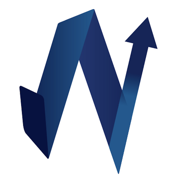
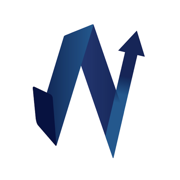
아이콘에 흰 여백(로고 80%) · 아이콘 주소에 ?v=2(브라우저가 예전 ESC 아이콘을 붙잡지 않게) · 메인 · 결제 안내 · 견적서 홈 버튼 「IM」 → 회사 로고 · 신청서 다섯 곳 링크 미리보기 = 메인 첫 화면 · 블로그 신청서 설명 「한 달에 10~100편」 → 「편당 10,000원 · 1회 10~100편 · 30일 안에 발행」 (이은총 님 10/16)

diff --git a/index.html b/index.html
@@ -25,11 +25,11 @@
 <meta property="og:image:alt" content="인투마케팅 — 홍보에 필요한 것을 한 회사에서">
 <meta name="twitter:card" content="summary_large_image">
 <meta name="twitter:image" content="https://intomarketing.co.kr/og-main.png">
-<link rel="icon" href="/favicon.ico" sizes="any">   <!-- 인투마케팅 로고 (2026-10-16) · 학원지원센터는 hakwon/ 의 ESC 아이콘 그대로 -->
-<link rel="icon" href="/favicon-32.png" sizes="32x32" type="image/png">
-<link rel="icon" href="/favicon-48.png" sizes="48x48" type="image/png">
-<link rel="icon" href="/favicon-192.png" sizes="192x192" type="image/png">
-<link rel="apple-touch-icon" href="/apple-touch-icon.png">
+<link rel="icon" href="/favicon.ico?v=2" sizes="any">   <!-- 인투마케팅 로고 (2026-10-16) · 학원지원센터는 hakwon/ 의 ESC 아이콘 그대로 -->
+<link rel="icon" href="/favicon-32.png?v=2" sizes="32x32" type="image/png">
+<link rel="icon" href="/favicon-48.png?v=2" sizes="48x48" type="image/png">
+<link rel="icon" href="/favicon-192.png?v=2" sizes="192x192" type="image/png">
+<link rel="apple-touch-icon" href="/apple-touch-icon.png?v=2">
 <meta name="theme-color" content="#12294D">
 <link rel="preconnect" href="https://fonts.googleapis.com">
 <link rel="preconnect" href="https://fonts.gstatic.com" crossorigin>
@@ -100,6 +100,9 @@ header{position:sticky;top:0;z-index:60;background:rgba(18,41,77,.94);
 .brand .mk{width:32px;height:32px;border-radius:8px;background:var(--accent);display:grid;place-items:center;
            font-weight:800;font-size:var(--t-xs);letter-spacing:.02em;color:#fff}
 .brand b{font-size:var(--t-base);font-weight:800;letter-spacing:-.01em}
+.brand .mk{background:#fff;overflow:hidden;box-shadow:0 0 0 1px rgba(15,23,42,.08)}
+.brand .mk img{width:100%;height:100%;display:block;object-fit:contain}
+body[data-view="design"] .brand .mk{background:#fff}
 .brand small{display:block;font-size:var(--t-xs);font-weight:600;color:#93B0DE;letter-spacing:.04em;line-height:1.2}
 .links{margin-left:auto;display:flex;align-items:center;gap:2px}
 .navlink{min-height:44px;display:inline-flex;align-items:center;background:none;border:0;cursor:pointer;color:#C6D8F4;font-size:var(--t-base);font-weight:600;
@@ -449,7 +452,7 @@ footer .cr{margin-top:12px;color:#6D8CB8;font-size:var(--t-xs)}
 <header>
   <div class="wrap nav">
     <button class="brand" onclick="go('home')">
-      <span class="mk">IM</span>
+      <span class="mk"><img src="/favicon-192.png?v=2" alt="" width="32" height="32"></span>   <!-- 회사 로고 (2026-10-16 · 전 「IM」 글자) -->
       <span><b>인투마케팅</b><small>INTO MARKETING</small></span>
     </button>
     <nav class="links" aria-label="주요 메뉴">

diff --git a/apply/index.html b/apply/index.html
@@ -7,15 +7,27 @@
 <link rel="preconnect" href="https://cdn.jsdelivr.net" crossorigin>
 <link rel="stylesheet" href="https://cdn.jsdelivr.net/gh/orioncactus/pretendard@v1.3.9/dist/web/variable/pretendardvariable-dynamic-subset.min.css">
 <title>홈페이지 제작 신청 · 인투마케팅</title>
+<!-- 링크 미리보기 그림 = 메인 첫 화면 (2026-10-16) -->
+<meta property="og:type" content="website">
+<meta property="og:site_name" content="인투마케팅">
+<meta property="og:title" content="홈페이지 제작 신청 · 인투마케팅">
+<meta property="og:description" content="인투마케팅 홈페이지 제작 신청과 제작 자료 보내기. 기능을 고르면 예상 금액이 바로 계산됩니다.">
+<meta property="og:url" content="https://intomarketing.co.kr/apply/">
+<meta property="og:locale" content="ko_KR">
+<meta property="og:image" content="https://intomarketing.co.kr/og-main.png">
+<meta property="og:image:width" content="1200">
+<meta property="og:image:height" content="630">
+<meta name="twitter:card" content="summary_large_image">
+<meta name="twitter:image" content="https://intomarketing.co.kr/og-main.png">
 <meta name="description" content="인투마케팅 홈페이지 제작 신청과 제작 자료 보내기. 기능을 고르면 예상 금액이 바로 계산됩니다.">
 <link rel="canonical" href="https://intomarketing.co.kr/apply/">
 <meta name="robots" content="noindex">
 <meta name="color-scheme" content="light dark">
-<link rel="icon" href="/favicon.ico" sizes="any">   <!-- 인투마케팅 로고 (2026-10-16) · 학원지원센터는 hakwon/ 의 ESC 아이콘 그대로 -->
-<link rel="icon" href="/favicon-32.png" sizes="32x32" type="image/png">
-<link rel="icon" href="/favicon-48.png" sizes="48x48" type="image/png">
-<link rel="icon" href="/favicon-192.png" sizes="192x192" type="image/png">
-<link rel="apple-touch-icon" href="/apple-touch-icon.png">
+<link rel="icon" href="/favicon.ico?v=2" sizes="any">   <!-- 인투마케팅 로고 (2026-10-16) · 학원지원센터는 hakwon/ 의 ESC 아이콘 그대로 -->
+<link rel="icon" href="/favicon-32.png?v=2" sizes="32x32" type="image/png">
+<link rel="icon" href="/favicon-48.png?v=2" sizes="48x48" type="image/png">
+<link rel="icon" href="/favicon-192.png?v=2" sizes="192x192" type="image/png">
+<link rel="apple-touch-icon" href="/apple-touch-icon.png?v=2">
 <meta name="theme-color" content="#12294D">
 <style>
 /* ══════════════════════════════════════════════════════════════

diff --git a/apply/blog/index.html b/apply/blog/index.html
@@ -10,14 +10,26 @@
 <link rel="preconnect" href="https://cdn.jsdelivr.net" crossorigin>
 <link rel="stylesheet" href="https://cdn.jsdelivr.net/gh/orioncactus/pretendard@v1.3.9/dist/web/variable/pretendardvariable-dynamic-subset.min.css">
 <title>블로그 · 리뷰 신청서 · 인투마케팅</title>
-<meta name="description" content="인투마케팅 블로그·리뷰 홍보 신청서. 한 달에 10~100편.">
+<!-- 링크 미리보기 그림 = 메인 첫 화면 (2026-10-16) -->
+<meta property="og:type" content="website">
+<meta property="og:site_name" content="인투마케팅">
+<meta property="og:title" content="블로그 · 리뷰 신청서 · 인투마케팅">
+<meta property="og:description" content="인투마케팅 블로그·리뷰 홍보 신청서. 편당 10,000원 · 1회 10~100편 · 30일 안에 발행.">
+<meta property="og:url" content="https://intomarketing.co.kr/apply/blog/">
+<meta property="og:locale" content="ko_KR">
+<meta property="og:image" content="https://intomarketing.co.kr/og-main.png">
+<meta property="og:image:width" content="1200">
+<meta property="og:image:height" content="630">
+<meta name="twitter:card" content="summary_large_image">
+<meta name="twitter:image" content="https://intomarketing.co.kr/og-main.png">
+<meta name="description" content="인투마케팅 블로그·리뷰 홍보 신청서. 편당 10,000원 · 1회 10~100편 · 30일 안에 발행.">
 <link rel="canonical" href="https://intomarketing.co.kr/apply/blog/">
 <meta name="robots" content="noindex">
-<link rel="icon" href="/favicon.ico" sizes="any">   <!-- 인투마케팅 로고 (2026-10-16) · 학원지원센터는 hakwon/ 의 ESC 아이콘 그대로 -->
-<link rel="icon" href="/favicon-32.png" sizes="32x32" type="image/png">
-<link rel="icon" href="/favicon-48.png" sizes="48x48" type="image/png">
-<link rel="icon" href="/favicon-192.png" sizes="192x192" type="image/png">
-<link rel="apple-touch-icon" href="/apple-touch-icon.png">
+<link rel="icon" href="/favicon.ico?v=2" sizes="any">   <!-- 인투마케팅 로고 (2026-10-16) · 학원지원센터는 hakwon/ 의 ESC 아이콘 그대로 -->
+<link rel="icon" href="/favicon-32.png?v=2" sizes="32x32" type="image/png">
+<link rel="icon" href="/favicon-48.png?v=2" sizes="48x48" type="image/png">
+<link rel="icon" href="/favicon-192.png?v=2" sizes="192x192" type="image/png">
+<link rel="apple-touch-icon" href="/apple-touch-icon.png?v=2">
 <meta name="theme-color" content="#12294D">
 <link rel="stylesheet" href="../form.css">
 <style>

diff --git a/apply/design/index.html b/apply/design/index.html
@@ -10,14 +10,26 @@
 <link rel="preconnect" href="https://cdn.jsdelivr.net" crossorigin>
 <link rel="stylesheet" href="https://cdn.jsdelivr.net/gh/orioncactus/pretendard@v1.3.9/dist/web/variable/pretendardvariable-dynamic-subset.min.css">
 <title>디자인 의뢰서 · 인투마케팅</title>
+<!-- 링크 미리보기 그림 = 메인 첫 화면 (2026-10-16) -->
+<meta property="og:type" content="website">
+<meta property="og:site_name" content="인투마케팅">
+<meta property="og:title" content="디자인 의뢰서 · 인투마케팅">
+<meta property="og:description" content="인투마케팅 그래픽 디자인 의뢰서. 로고·명함, 인쇄·홍보물, SNS·카드뉴스.">
+<meta property="og:url" content="https://intomarketing.co.kr/apply/design/">
+<meta property="og:locale" content="ko_KR">
+<meta property="og:image" content="https://intomarketing.co.kr/og-main.png">
+<meta property="og:image:width" content="1200">
+<meta property="og:image:height" content="630">
+<meta name="twitter:card" content="summary_large_image">
+<meta name="twitter:image" content="https://intomarketing.co.kr/og-main.png">
 <meta name="description" content="인투마케팅 그래픽 디자인 의뢰서. 로고·명함, 인쇄·홍보물, SNS·카드뉴스.">
 <link rel="canonical" href="https://intomarketing.co.kr/apply/design/">
 <meta name="robots" content="noindex">
-<link rel="icon" href="/favicon.ico" sizes="any">   <!-- 인투마케팅 로고 (2026-10-16) · 학원지원센터는 hakwon/ 의 ESC 아이콘 그대로 -->
-<link rel="icon" href="/favicon-32.png" sizes="32x32" type="image/png">
-<link rel="icon" href="/favicon-48.png" sizes="48x48" type="image/png">
-<link rel="icon" href="/favicon-192.png" sizes="192x192" type="image/png">
-<link rel="apple-touch-icon" href="/apple-touch-icon.png">
+<link rel="icon" href="/favicon.ico?v=2" sizes="any">   <!-- 인투마케팅 로고 (2026-10-16) · 학원지원센터는 hakwon/ 의 ESC 아이콘 그대로 -->
+<link rel="icon" href="/favicon-32.png?v=2" sizes="32x32" type="image/png">
+<link rel="icon" href="/favicon-48.png?v=2" sizes="48x48" type="image/png">
+<link rel="icon" href="/favicon-192.png?v=2" sizes="192x192" type="image/png">
+<link rel="apple-touch-icon" href="/apple-touch-icon.png?v=2">
 <meta name="theme-color" content="#365C29">
 <link rel="stylesheet" href="../form.css">
 <!-- 🔴 디자인 신청서만 노랑 · 초록입니다 (2026-10-12 디자인팀 요청 — 홈페이지 「디자인」 화면과 같은 색).

diff --git a/apply/video/index.html b/apply/video/index.html
@@ -10,14 +10,26 @@
 <link rel="preconnect" href="https://cdn.jsdelivr.net" crossorigin>
 <link rel="stylesheet" href="https://cdn.jsdelivr.net/gh/orioncactus/pretendard@v1.3.9/dist/web/variable/pretendardvariable-dynamic-subset.min.css">
 <title>영상 제작 신청서 · 인투마케팅</title>
+<!-- 링크 미리보기 그림 = 메인 첫 화면 (2026-10-16) -->
+<meta property="og:type" content="website">
+<meta property="og:site_name" content="인투마케팅">
+<meta property="og:title" content="영상 제작 신청서 · 인투마케팅">
+<meta property="og:description" content="인투마케팅 영상 제작 신청서. 숏폼·롱폼, 기획·촬영·편집.">
+<meta property="og:url" content="https://intomarketing.co.kr/apply/video/">
+<meta property="og:locale" content="ko_KR">
+<meta property="og:image" content="https://intomarketing.co.kr/og-main.png">
+<meta property="og:image:width" content="1200">
+<meta property="og:image:height" content="630">
+<meta name="twitter:card" content="summary_large_image">
+<meta name="twitter:image" content="https://intomarketing.co.kr/og-main.png">
 <meta name="description" content="인투마케팅 영상 제작 신청서. 숏폼·롱폼, 기획·촬영·편집.">
 <link rel="canonical" href="https://intomarketing.co.kr/apply/video/">
 <meta name="robots" content="noindex">
-<link rel="icon" href="/favicon.ico" sizes="any">   <!-- 인투마케팅 로고 (2026-10-16) · 학원지원센터는 hakwon/ 의 ESC 아이콘 그대로 -->
-<link rel="icon" href="/favicon-32.png" sizes="32x32" type="image/png">
-<link rel="icon" href="/favicon-48.png" sizes="48x48" type="image/png">
-<link rel="icon" href="/favicon-192.png" sizes="192x192" type="image/png">
-<link rel="apple-touch-icon" href="/apple-touch-icon.png">
+<link rel="icon" href="/favicon.ico?v=2" sizes="any">   <!-- 인투마케팅 로고 (2026-10-16) · 학원지원센터는 hakwon/ 의 ESC 아이콘 그대로 -->
+<link rel="icon" href="/favicon-32.png?v=2" sizes="32x32" type="image/png">
+<link rel="icon" href="/favicon-48.png?v=2" sizes="48x48" type="image/png">
+<link rel="icon" href="/favicon-192.png?v=2" sizes="192x192" type="image/png">
+<link rel="apple-touch-icon" href="/apple-touch-icon.png?v=2">
 <meta name="theme-color" content="#12294D">
 <link rel="stylesheet" href="../form.css">
 </head>

diff --git a/apply/sns/index.html b/apply/sns/index.html
@@ -10,14 +10,26 @@
 <link rel="preconnect" href="https://cdn.jsdelivr.net" crossorigin>
 <link rel="stylesheet" href="https://cdn.jsdelivr.net/gh/orioncactus/pretendard@v1.3.9/dist/web/variable/pretendardvariable-dynamic-subset.min.css">
 <title>SNS 채널 신청서 · 인투마케팅</title>
+<!-- 링크 미리보기 그림 = 메인 첫 화면 (2026-10-16) -->
+<meta property="og:type" content="website">
+<meta property="og:site_name" content="인투마케팅">
+<meta property="og:title" content="SNS 채널 신청서 · 인투마케팅">
+<meta property="og:description" content="인투마케팅 SNS 채널 세팅·정기 콘텐츠 신청서.">
+<meta property="og:url" content="https://intomarketing.co.kr/apply/sns/">
+<meta property="og:locale" content="ko_KR">
+<meta property="og:image" content="https://intomarketing.co.kr/og-main.png">
+<meta property="og:image:width" content="1200">
+<meta property="og:image:height" content="630">
+<meta name="twitter:card" content="summary_large_image">
+<meta name="twitter:image" content="https://intomarketing.co.kr/og-main.png">
 <meta name="description" content="인투마케팅 SNS 채널 세팅·정기 콘텐츠 신청서.">
 <link rel="canonical" href="https://intomarketing.co.kr/apply/sns/">
 <meta name="robots" content="noindex">
-<link rel="icon" href="/favicon.ico" sizes="any">   <!-- 인투마케팅 로고 (2026-10-16) · 학원지원센터는 hakwon/ 의 ESC 아이콘 그대로 -->
-<link rel="icon" href="/favicon-32.png" sizes="32x32" type="image/png">
-<link rel="icon" href="/favicon-48.png" sizes="48x48" type="image/png">
-<link rel="icon" href="/favicon-192.png" sizes="192x192" type="image/png">
-<link rel="apple-touch-icon" href="/apple-touch-icon.png">
+<link rel="icon" href="/favicon.ico?v=2" sizes="any">   <!-- 인투마케팅 로고 (2026-10-16) · 학원지원센터는 hakwon/ 의 ESC 아이콘 그대로 -->
+<link rel="icon" href="/favicon-32.png?v=2" sizes="32x32" type="image/png">
+<link rel="icon" href="/favicon-48.png?v=2" sizes="48x48" type="image/png">
+<link rel="icon" href="/favicon-192.png?v=2" sizes="192x192" type="image/png">
+<link rel="apple-touch-icon" href="/apple-touch-icon.png?v=2">
 <meta name="theme-color" content="#12294D">
 <link rel="stylesheet" href="../form.css">
 </head>

diff --git a/payment/index.html b/payment/index.html
@@ -11,11 +11,11 @@
 <link rel="stylesheet" href="https://cdn.jsdelivr.net/gh/orioncactus/pretendard@v1.3.9/dist/web/variable/pretendardvariable-dynamic-subset.min.css">
 <title>결제 · 취소 · 환불 안내 — 인투마케팅</title>
 <meta name="description" content="인투마케팅 서비스의 결제 수단, 결제 시점, 취소 및 환불 기준 안내">
-<link rel="icon" href="/favicon.ico" sizes="any">   <!-- 인투마케팅 로고 (2026-10-16) · 학원지원센터는 hakwon/ 의 ESC 아이콘 그대로 -->
-<link rel="icon" href="/favicon-32.png" sizes="32x32" type="image/png">
-<link rel="icon" href="/favicon-48.png" sizes="48x48" type="image/png">
-<link rel="icon" href="/favicon-192.png" sizes="192x192" type="image/png">
-<link rel="apple-touch-icon" href="/apple-touch-icon.png">
+<link rel="icon" href="/favicon.ico?v=2" sizes="any">   <!-- 인투마케팅 로고 (2026-10-16) · 학원지원센터는 hakwon/ 의 ESC 아이콘 그대로 -->
+<link rel="icon" href="/favicon-32.png?v=2" sizes="32x32" type="image/png">
+<link rel="icon" href="/favicon-48.png?v=2" sizes="48x48" type="image/png">
+<link rel="icon" href="/favicon-192.png?v=2" sizes="192x192" type="image/png">
+<link rel="apple-touch-icon" href="/apple-touch-icon.png?v=2">
 <meta name="theme-color" content="#12294D">
 <style>
   /* 대표 페이지(/)·학원지원센터(/hakwon/)와 같은 색·글꼴 — 같은 회사로 보이게 */
@@ -132,13 +132,15 @@ img{outline:1px solid rgba(0,0,0,.1);outline-offset:-1px}
 @media (prefers-reduced-motion:reduce){
   .btn:active,.chip:active,.pick:active,.sp:active,.tab:active{transform:none}
 }
+  .mk i{background:#fff;overflow:hidden}   /* 회사 로고 (2026-10-16) */
+  .mk i img{width:100%;height:100%;display:block;object-fit:contain}
 </style>
 </head>
 <body>
 
 <header class="top">
   <div class="wrap">
-    <a class="mk" href="../"><i>IM</i><b>인투마케팅</b></a>
+    <a class="mk" href="../"><i><img src="/favicon-192.png?v=2" alt="" width="32" height="32"></i><b>인투마케팅</b></a>
     <h1>결제 · 취소 · 환불 안내</h1>
     <p class="eff">2026년 10월 3일 기준 · 환불 기준은 <a href="../terms/#t7" style="color:#DCE6F8">이용약관 제7조</a>를 따릅니다</p>
   </div>

diff --git a/quote/index.html b/quote/index.html
@@ -11,11 +11,11 @@
 <link rel="stylesheet" href="https://cdn.jsdelivr.net/gh/orioncactus/pretendard@v1.3.9/dist/web/variable/pretendardvariable-dynamic-subset.min.css">
 <meta name="robots" content="noindex, nofollow">
 <title>견적서 — 인투마케팅</title>
-<link rel="icon" href="/favicon.ico" sizes="any">   <!-- 인투마케팅 로고 (2026-10-16) · 학원지원센터는 hakwon/ 의 ESC 아이콘 그대로 -->
-<link rel="icon" href="/favicon-32.png" sizes="32x32" type="image/png">
-<link rel="icon" href="/favicon-48.png" sizes="48x48" type="image/png">
-<link rel="icon" href="/favicon-192.png" sizes="192x192" type="image/png">
-<link rel="apple-touch-icon" href="/apple-touch-icon.png">
+<link rel="icon" href="/favicon.ico?v=2" sizes="any">   <!-- 인투마케팅 로고 (2026-10-16) · 학원지원센터는 hakwon/ 의 ESC 아이콘 그대로 -->
+<link rel="icon" href="/favicon-32.png?v=2" sizes="32x32" type="image/png">
+<link rel="icon" href="/favicon-48.png?v=2" sizes="48x48" type="image/png">
+<link rel="icon" href="/favicon-192.png?v=2" sizes="192x192" type="image/png">
+<link rel="apple-touch-icon" href="/apple-touch-icon.png?v=2">
 <meta name="theme-color" content="#12294D">
 <style>
   /* 대표 페이지(/)·학원지원센터(/hakwon/)와 같은 색·글꼴 — 같은 회사로 보이게 */
@@ -137,6 +137,8 @@
   @media (prefers-color-scheme:dark){.msg.err{background:#3A1B1B;color:#F6B5B5}.msg.ok{background:#16301F;color:#A8E0BE}}
   .done{text-align:center;padding:40px 20px}
   .done .big{font-size:40px}
+  .mk i{background:#fff;overflow:hidden}   /* 회사 로고 (2026-10-16) */
+  .mk i img{width:100%;height:100%;display:block;object-fit:contain}
 </style>
 <script src="https://cdn.jsdelivr.net/npm/@supabase/supabase-js@2"></script>
 <script src="https://cdn.portone.io/v2/browser-sdk.js"></script>
@@ -145,7 +147,7 @@
 
 <header class="top">
   <div class="wrap">
-    <a class="mk" href="../"><i>IM</i><b>인투마케팅</b></a>
+    <a class="mk" href="../"><i><img src="/favicon-192.png?v=2" alt="" width="32" height="32"></i><b>인투마케팅</b></a>
     <h1>견적서</h1>
     <p class="eff" id="eff">불러오는 중…</p>
   </div>

diff --git a/admin/index.html b/admin/index.html
@@ -11,11 +11,11 @@
 <link rel="stylesheet" href="https://cdn.jsdelivr.net/gh/orioncactus/pretendard@v1.3.9/dist/web/variable/pretendardvariable-dynamic-subset.min.css">
 <title>모아 보기 · 인투마케팅 관리자</title>
 <meta name="robots" content="noindex,nofollow">
-<link rel="icon" href="/favicon.ico" sizes="any">   <!-- 인투마케팅 로고 (2026-10-16) · 학원지원센터는 hakwon/ 의 ESC 아이콘 그대로 -->
-<link rel="icon" href="/favicon-32.png" sizes="32x32" type="image/png">
-<link rel="icon" href="/favicon-48.png" sizes="48x48" type="image/png">
-<link rel="icon" href="/favicon-192.png" sizes="192x192" type="image/png">
-<link rel="apple-touch-icon" href="/apple-touch-icon.png">
+<link rel="icon" href="/favicon.ico?v=2" sizes="any">   <!-- 인투마케팅 로고 (2026-10-16) · 학원지원센터는 hakwon/ 의 ESC 아이콘 그대로 -->
+<link rel="icon" href="/favicon-32.png?v=2" sizes="32x32" type="image/png">
+<link rel="icon" href="/favicon-48.png?v=2" sizes="48x48" type="image/png">
+<link rel="icon" href="/favicon-192.png?v=2" sizes="192x192" type="image/png">
+<link rel="apple-touch-icon" href="/apple-touch-icon.png?v=2">
 <meta name="theme-color" content="#12294D">
 <style>
 /* ──────────────────────────────────────────────────────────────

diff --git a/privacy/index.html b/privacy/index.html
@@ -11,11 +11,11 @@
 <link rel="stylesheet" href="https://cdn.jsdelivr.net/gh/orioncactus/pretendard@v1.3.9/dist/web/variable/pretendardvariable-dynamic-subset.min.css">
 <title>개인정보처리방침 — 인투마케팅</title>
 <meta name="description" content="인투마케팅 개인정보처리방침 · 시행일 2026년 9월 10일">
-<link rel="icon" href="/favicon.ico" sizes="any">   <!-- 인투마케팅 로고 (2026-10-16) · 학원지원센터는 hakwon/ 의 ESC 아이콘 그대로 -->
-<link rel="icon" href="/favicon-32.png" sizes="32x32" type="image/png">
-<link rel="icon" href="/favicon-48.png" sizes="48x48" type="image/png">
-<link rel="icon" href="/favicon-192.png" sizes="192x192" type="image/png">
-<link rel="apple-touch-icon" href="/apple-touch-icon.png">
+<link rel="icon" href="/favicon.ico?v=2" sizes="any">   <!-- 인투마케팅 로고 (2026-10-16) · 학원지원센터는 hakwon/ 의 ESC 아이콘 그대로 -->
+<link rel="icon" href="/favicon-32.png?v=2" sizes="32x32" type="image/png">
+<link rel="icon" href="/favicon-48.png?v=2" sizes="48x48" type="image/png">
+<link rel="icon" href="/favicon-192.png?v=2" sizes="192x192" type="image/png">
+<link rel="apple-touch-icon" href="/apple-touch-icon.png?v=2">
 <meta name="theme-color" content="#12294D">
 <style>
   /* 대표 페이지(/)·학원지원센터(/hakwon/)와 같은 색·글꼴 — 같은 회사로 보이게 */

diff --git a/terms/index.html b/terms/index.html
@@ -11,11 +11,11 @@
 <link rel="stylesheet" href="https://cdn.jsdelivr.net/gh/orioncactus/pretendard@v1.3.9/dist/web/variable/pretendardvariable-dynamic-subset.min.css">
 <title>이용약관 — 인투마케팅</title>
 <meta name="description" content="인투마케팅 서비스 이용약관 · 시행일 2026년 9월 25일">
-<link rel="icon" href="/favicon.ico" sizes="any">   <!-- 인투마케팅 로고 (2026-10-16) · 학원지원센터는 hakwon/ 의 ESC 아이콘 그대로 -->
-<link rel="icon" href="/favicon-32.png" sizes="32x32" type="image/png">
-<link rel="icon" href="/favicon-48.png" sizes="48x48" type="image/png">
-<link rel="icon" href="/favicon-192.png" sizes="192x192" type="image/png">
-<link rel="apple-touch-icon" href="/apple-touch-icon.png">
+<link rel="icon" href="/favicon.ico?v=2" sizes="any">   <!-- 인투마케팅 로고 (2026-10-16) · 학원지원센터는 hakwon/ 의 ESC 아이콘 그대로 -->
+<link rel="icon" href="/favicon-32.png?v=2" sizes="32x32" type="image/png">
+<link rel="icon" href="/favicon-48.png?v=2" sizes="48x48" type="image/png">
+<link rel="icon" href="/favicon-192.png?v=2" sizes="192x192" type="image/png">
+<link rel="apple-touch-icon" href="/apple-touch-icon.png?v=2">
 <meta name="theme-color" content="#12294D">
 <style>
   /* 대표 페이지(/)·학원지원센터(/hakwon/)와 같은 색·글꼴 — 같은 회사로 보이게 */

diff --git a/my/index.html b/my/index.html
@@ -11,11 +11,11 @@
 <link rel="stylesheet" href="https://cdn.jsdelivr.net/gh/orioncactus/pretendard@v1.3.9/dist/web/variable/pretendardvariable-dynamic-subset.min.css">
 <meta name="robots" content="noindex,nofollow">
 <title>마이페이지 · 인투마케팅</title>
-<link rel="icon" href="/favicon.ico" sizes="any">   <!-- 인투마케팅 로고 (2026-10-16) · 학원지원센터는 hakwon/ 의 ESC 아이콘 그대로 -->
-<link rel="icon" href="/favicon-32.png" sizes="32x32" type="image/png">
-<link rel="icon" href="/favicon-48.png" sizes="48x48" type="image/png">
-<link rel="icon" href="/favicon-192.png" sizes="192x192" type="image/png">
-<link rel="apple-touch-icon" href="/apple-touch-icon.png">
+<link rel="icon" href="/favicon.ico?v=2" sizes="any">   <!-- 인투마케팅 로고 (2026-10-16) · 학원지원센터는 hakwon/ 의 ESC 아이콘 그대로 -->
+<link rel="icon" href="/favicon-32.png?v=2" sizes="32x32" type="image/png">
+<link rel="icon" href="/favicon-48.png?v=2" sizes="48x48" type="image/png">
+<link rel="icon" href="/favicon-192.png?v=2" sizes="192x192" type="image/png">
+<link rel="apple-touch-icon" href="/apple-touch-icon.png?v=2">
 <link rel="stylesheet" href="/my/my.css">
 <!-- 고객 마이페이지 (인투마케팅). 학원지원센터는 /hakwon/my/ 에 따로 있습니다 — 서로 오가지 않습니다. -->
 </head>
